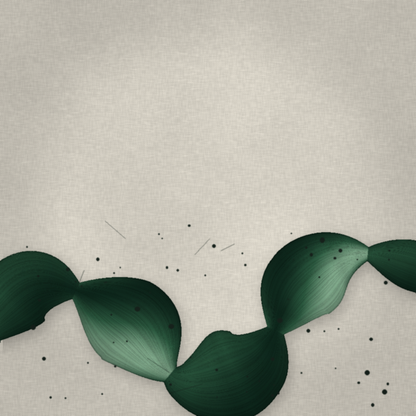
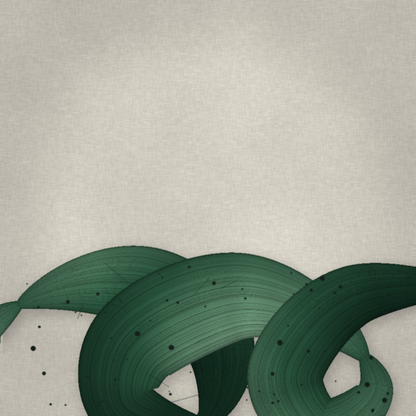
Esferas: cinta más fluida (cinta plana que se pliega, luz continua, bucles, colas secas)
Claude-Session: https://claude.ai/code/session_0148qsZtKrfrxGzekTrvD4BA

diff --git a/Esferas/store/generador/render.html b/Esferas/store/generador/render.html
@@ -92,7 +92,7 @@ function cinta(d, verde){
   text(P(195), P(50), d.date, F.label, soft);
   text(P(195), P(72), d.time, F.time, ink);
   row(P(195), P(178), [[d.cond, d.temp + '°'], ['steps', fmtSteps(d.steps)], ['battery', d.battery + '%']], ink, soft, bg);
-  const s = sunItem(d); row(P(195), P(214), [s], soft, soft, bg, 20);
+  const s = sunItem(d); row(P(195), P(210), [s], soft, soft, bg, 20);
 }
 
 // =================== BLOQUES ===================

diff --git a/Esferas/tools/paint.py b/Esferas/tools/paint.py
@@ -122,19 +122,25 @@ def ribbon(img, ctrl, colors, seed, width=46.0, twists=2.2):
     tang = np.gradient(P, axis=0)
     tang /= np.linalg.norm(tang, axis=1, keepdims=True) + 1e-9
     nrm = np.stack([-tang[:, 1], tang[:, 0]], 1)
-    phi = 2 * np.pi * twists * t + 0.4
-    taper = 0.35 + 0.65 * np.sin(np.pi * np.clip(t * 1.04, 0, 1)) ** 0.6
-    half = width * (0.20 + 0.80 * np.abs(np.cos(phi))) * taper
+    # giro lento y continuo (sin cambios bruscos de cara) + curvatura del trazo
+    phi = 2 * np.pi * twists * t + 0.4 + 0.6 * np.sin(2 * np.pi * 0.7 * t)
+    taper = 0.30 + 0.70 * np.sin(np.pi * np.clip(t * 1.02, 0, 1)) ** 0.5
+    half = width * (0.12 + 0.88 * np.abs(np.cos(phi)) ** 0.8) * taper     # cinta plana que se pliega
     nk = 520
     k = np.linspace(-1, 1, nk, dtype=np.float32)
     # textura de cerdas: tono por cerda (constante a lo largo) + surcos + carga de pintura
-    bristle = 0.84 + 0.26 * rng.random(nk)
-    bristle[rng.random(nk) > 0.88] *= 0.62
+    bristle = 0.80 + 0.34 * rng.random(nk)
+    bristle[rng.random(nk) > 0.84] *= 0.55
     bristle = np.convolve(bristle, [0.25, 0.5, 0.25], mode="same")
     load = 0.94 + 0.12 * np.interp(t, np.linspace(0, 1, 60), rng.random(60))
-    shade = 0.5 + 0.5 * np.sin(phi[:, None] + 1.7 * k[None, :])
-    back = (np.cos(phi) < 0)[:, None]
-    shade = np.where(back, shade * 0.42, np.clip(shade * 1.05, 0, 1))
+    # luz continua: la superficie es un cilindro que rota; la cara trasera se oscurece
+    # de forma gradual (no por salto) según el coseno del giro.
+    # cinta plana: la luz depende sobre todo de hacia dónde mira la cara (giro), con un leve
+    # abombado a lo ancho y oscurecimiento junto a los pliegues
+    face = np.cos(phi)[:, None]
+    shade = 0.5 + 0.38 * np.sin(phi[:, None] + 0.55 * k[None, :]) + 0.12 * face
+    shade = shade * (0.55 + 0.45 * np.abs(face) ** 0.5)
+    shade = np.clip(shade, 0, 1)
     dark, mid, light = (hexrgb(c) for c in colors)
     lo = dark + (mid - dark) * np.clip(shade * 2, 0, 1)[..., None]
     hi = mid + (light - mid) * np.clip(shade * 2 - 1, 0, 1)[..., None]
@@ -147,8 +153,10 @@ def ribbon(img, ctrl, colors, seed, width=46.0, twists=2.2):
     inside = ((X > -5) & (X < 395) & (Y > -5) & (Y < 395)).ravel()
     buf = np.zeros((N, N, 3), np.float32)
     alpha = np.zeros((N, N), np.float32)
-    buf[iy[inside], ix[inside]] = np.clip(col.reshape(-1, 3)[inside], 0, 1)   # el último tramo gana
-    alpha[iy[inside], ix[inside]] = 1.0
+    tail = np.minimum(t / 0.08, (1 - t) / 0.10)                         # 0 en las puntas
+    keep = (rng.random((len(t), nk)) < np.clip(tail, 0, 1)[:, None] ** 0.7 + 0.05).ravel() & inside
+    buf[iy[keep], ix[keep]] = np.clip(col.reshape(-1, 3)[keep], 0, 1)   # el último tramo gana
+    alpha[iy[keep], ix[keep]] = 1.0
     rgba = Image.fromarray((np.dstack([buf, alpha]) * 255).astype(np.uint8), "RGBA")
     arr = np.asarray(rgba.filter(ImageFilter.GaussianBlur(0.35 * K)), np.float32) / 255.0
     # sombra suave proyectada sobre el lino
@@ -182,9 +190,11 @@ def splatter(img, color, seed, region, count=70):
 
 def bg_cinta(ground, colors, ink, seed):
     img = mottle(linen(solid(ground), 0.09, seed), 0.05, seed + 1)
-    ctrl = [(-50, 360), (30, 268), (118, 300), (168, 356), (238, 340), (282, 268), (340, 238), (440, 268)]
-    img = ribbon(img, ctrl, colors, seed + 2, width=44.0, twists=2.6)
-    img = splatter(img, ink, seed + 3, (20, 205, 370, 380))
+    # gesto caligráfico: entra por la izquierda, hace dos bucles que se pisan y sale por arriba a la derecha
+    ctrl = [(x, y + 30) for x, y in [(-60, 318), (30, 250), (132, 238), (204, 290), (192, 362), (118, 352),
+            (128, 290), (222, 248), (312, 276), (352, 334), (300, 374), (268, 318), (330, 248), (450, 236)]]
+    img = ribbon(img, ctrl, colors, seed + 2, width=46.0, twists=1.75)
+    img = splatter(img, ink, seed + 3, (20, 245, 370, 385))
     return to_image(vignette(img, 0.10))
 
 
